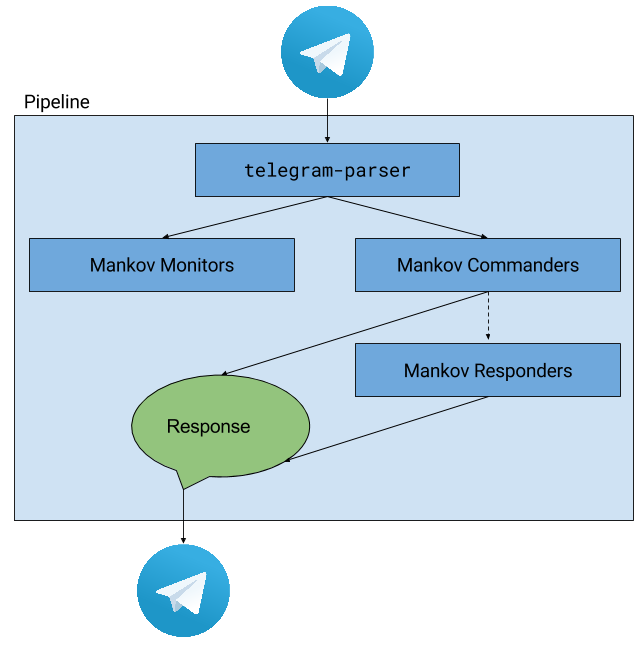
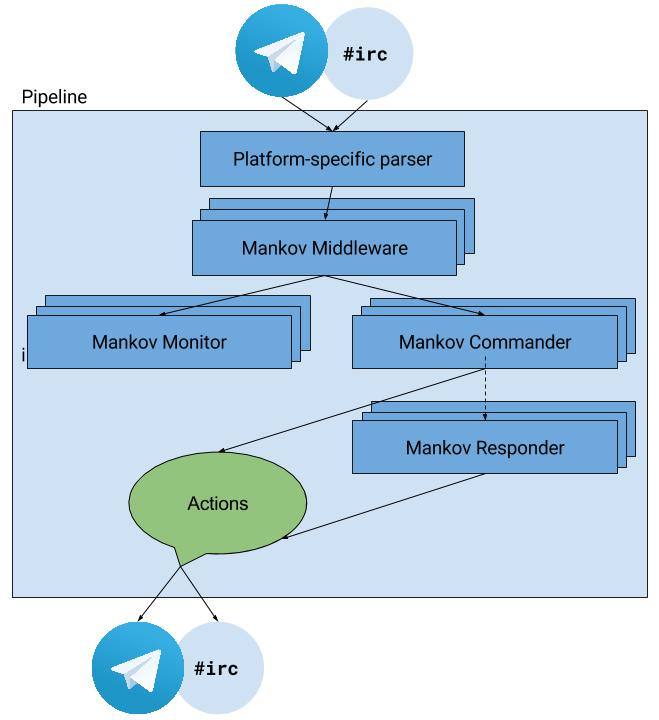
Update documentation

diff --git a/README.md b/README.md
@@ -1,47 +1,60 @@
 mankov-core [![Sponsored by Chilicorn.org](https://img.shields.io/badge/sponsored%20by-chilicorn.org-brightgreen.svg)](http://chilicorn.org)
 =====================================================================
 
-_Mankov_ is framework for building [Telegram Bots](https://core.telegram.org/bots/api). Its purpose is to do the mandatory bits required for communicating with Telegram's API, and you can focus only on implementating the actual logic & intelligence of your bot. 
+_Mankov_ is framework for building Chat Bots. Its purpose is to offer core architechture and do the mandatory bits required for communicating with chat platforms while you can focus only on implementating the actual logic & intelligence of your bot. 
 
-_Mankov_ is slightly opinionated when it comes to how we think Telegram bots should be built. This code is forked from [BorisBot](https://github.com/miro/BorisBot), our first take on building a Telegram bot. Most of the opinions rise from there.
+To see example how to use Mankov, check [`example-mankov-bot`](https://github.com/mankov/example-mankov-bot)
 
+_Mankov_ is slightly opinionated when it comes to how we think chat bots should be built. This code is forked from [BorisBot](https://github.com/miro/BorisBot), our first take on building a Telegram bot. Most of the opinions rise from there.
+
+**Currently supported platforms:**
+- [Telegram](https://core.telegram.org/bots/api) (via [`node-telegram-bot-api`](https://github.com/yagop/node-telegram-bot-api))
+- [Internet Relay Chat](http://www.irchelp.org/) (via [`irc`](https://github.com/martynsmith/node-irc))
 
 
 # Concepts & architechture
 
 (**NOTE:** Naming of things in this section are subject to change, since you know, naming things is hard. Everything else will probably change also. Yau!)
 
-Basic concept of Telegram Bot is quite simple. You subscribe to Telegram's Bot API and then receive all the messages (including pictures, stickers, videos, & whatnot). Then you react on those messages somehow (or ignore them, up to you).
+Basic concept of a chat bot is quite simple. You get the messages from the platform API via some mechanism (including pictures, stickers, videos, & whatnot). Then you react on those messages somehow (or ignore them, up to you).
 
-In _Mankov-powered bot_ there is a _Pipeline_ where all those Telegram-sent messages are processed. All the messages are parsed by the `telegram-parser` which maps the information into more readable & flexible format. We call this format as an _Event_.
+In _Mankov-powered bot_ there is a _Pipeline_ where all those platform-sent messages are processed. All the messages are parsed by a _platform specific parser_ which maps the information into platform agnostic _Event_.
 
-![Mankov Pipeline](docs/pipeline.png)
+![Mankov Pipeline](https://raw.githubusercontent.com/mankov/mankov/development/docs/pipeline.png)
 
 In the Pipeline there are three different kind of Event handlers:
 
+
+## Middlewares
+
+After the platform-specific parser creates the Event, you can attach middleware code which alters that Event before it is sent further on on the Pipeline. This is great place for adding for eg user authentication code etc.
+
+
 ## Monitors
 
-Each event gets sent to all the _Monitor handlers_ which are attached to the Mankov instance. These handlers can process the Event in any way they like; they aren't expected to respond to the event in any way.
+Each _Event_ gets sent to all the _Monitors_ which are attached to the Mankov instance. These handlers can process the Event in any way they like; they aren't expected to respond to the event in any way.
 
-The usual usecase for _Monitor_ is logging the events somewhere.
+The usual usecase for _Monitor_ is logging the Events somehow.
 
 
 ## Commanders
 
-...are handlers for Events in which the user directly interacts with the Bot. Each event will be sent to all attached _Commander handlers_ - there can be multiple of them. Each handler decides is this Event something that it will start to process or not. If handler is not interested in this particular Event, it can ignore it.
+...are handlers for Events in which the user directly interacts with the Bot. Each event will be sent to all attached _Commanders_ - there can be multiple of them. Each Commander decides is this Event something that it will start to process or not. If handler is not interested in this particular Event, it can ignore it.
 
-Single Event will be allowed to be "resolved" only by one _Commander handler_. If there happens a situation where multiple handlers tries to send a resolution to the Event, Mankov prompts user about what Commander they were trying to interact with.
+If Commander is interested in the Event, it can send a _Bid_ for it. If there are only one Bid, that Commander handles the Event. If there are multiple Bids, the user will be prompted based on the meta info on the Bid that what was the actual command they were trying to resolve.
 
-The result of this is that single Event should alter internal state of at maximum only one _Commander handler_.
+After the "handling Commander" is found out, it is allowed to process the Event. It can return as many _Actions_ as it wants as a result, and Mankov will then execute them.
+
+When Commander has handled the Event, Mankov will consider it be resolved & **won't send it further on the Pipeline.**
 
 
 ## Responders
 
-If no Commander handler does not resolve the Event (or no Commander handlers are attached), the Event will be sent to all the _Responder handlers_ attached.
+If no Commander does not send a Bid for the Event (or no Commander handlers are attached), the Event will be sent to all the _Responders_ attached.
 
-_Responder handlers_ are meant for implementing "human-like reactions" to messages. Each handler can decide on their own should they send some reaction to the Event they received or not.
+_Responders_ are meant for implementing "human-like reactions" to messages. Each handler can decide on their own should they send some reaction to the Event they received or not.
 
-Each reaction must define a _priority_. If there are multiple reactions for single Event, the reaction with the highest priority will be sent to the origin of the Event.
+(_**TODO**: not implemented/designed yet_) Each reaction must define a _priority_. If there are multiple reactions for single Event, the reaction with the highest priority will be sent to the origin of the Event.
 
 (The method of defining these priorities hasn't been solved yet.)
 
